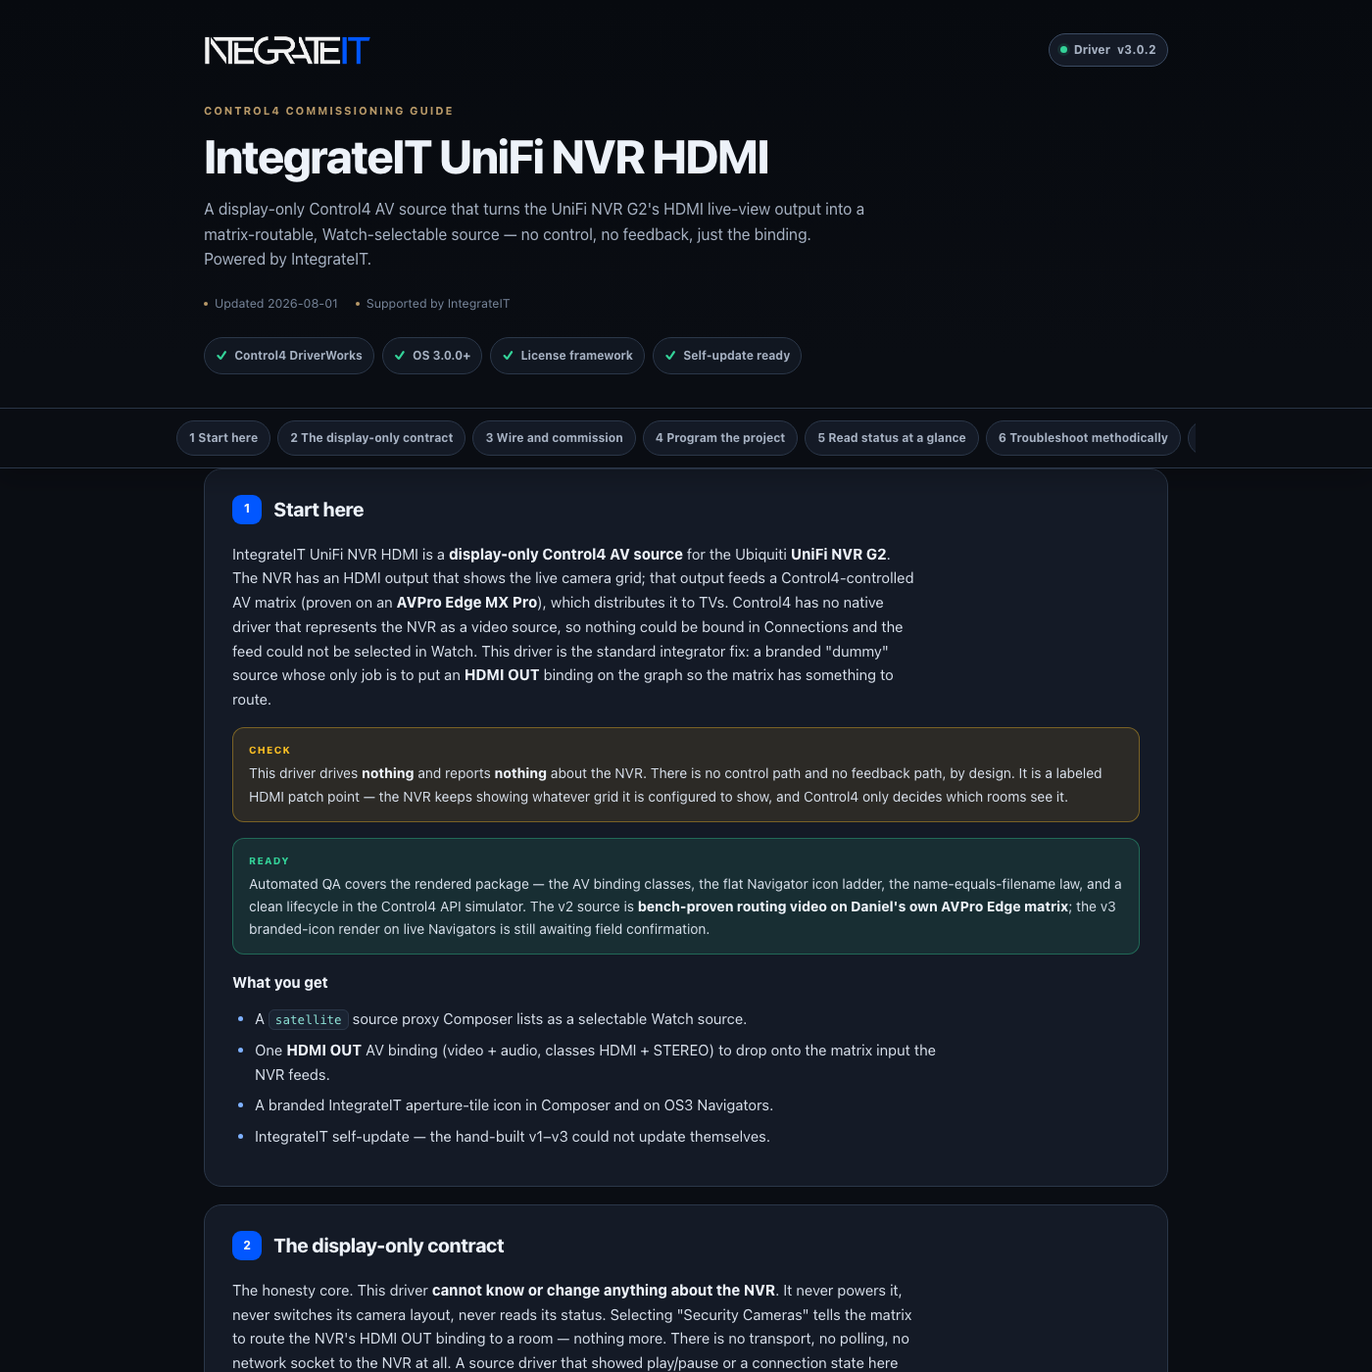
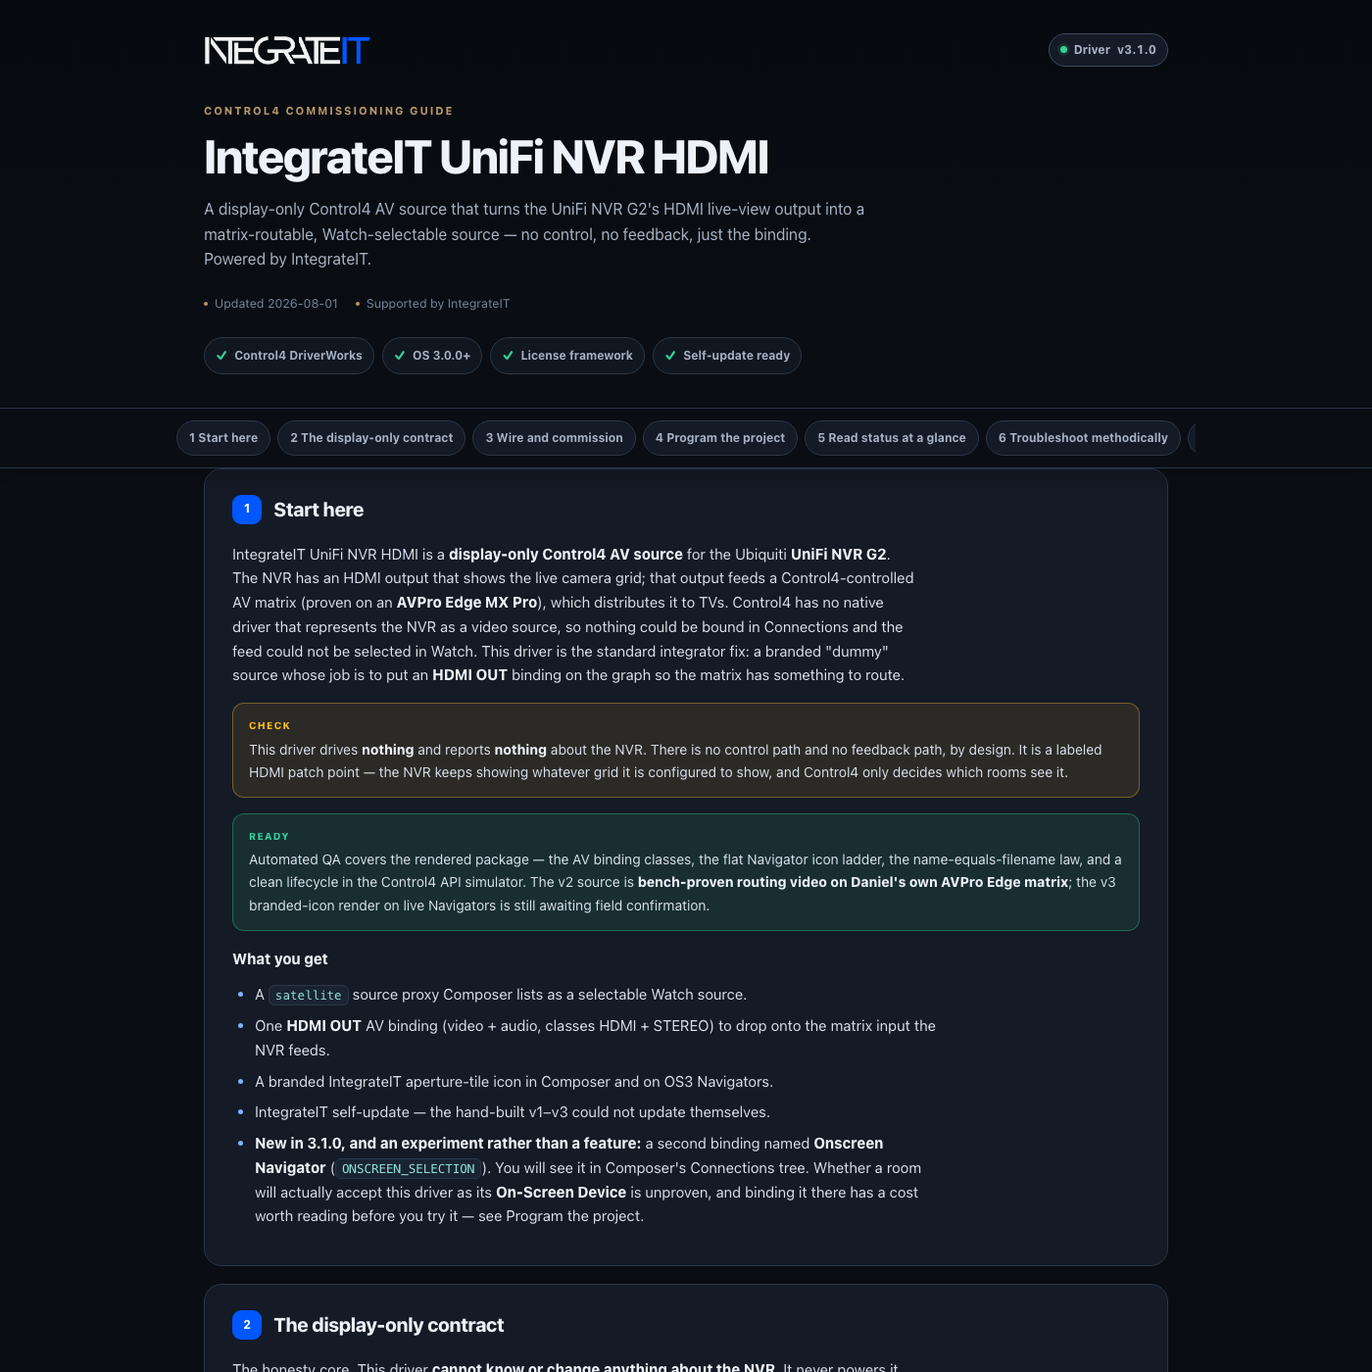
control4: publish driver channel (integrateit_unifi_nvr_hdmi 3.1.0)

Changed region(s): [[0.1536, 0.4914, 0.8293, 1.0]]

diff --git a/control4/integrateit_unifi_nvr_hdmi/documentation.html b/control4/integrateit_unifi_nvr_hdmi/documentation.html
@@ -179,7 +179,7 @@ td code{white-space:normal}
     <div class="wrap">
       <div class="brandbar">
[1 lines of base64/hex data omitted]
-        <span class="version"><span class="word">Driver</span> v3.0.2</span>
+        <span class="version"><span class="word">Driver</span> v3.1.0</span>
       </div>
       <p class="eyebrow">Control4 commissioning guide</p>
       <h1>IntegrateIT UniFi NVR HDMI</h1>
@@ -204,7 +204,7 @@ td code{white-space:normal}
   <main class="wrap">
     <section class="card" id="overview" data-card="overview">
   <h2><span class="n">1</span> Start here</h2>
-  <p>IntegrateIT UniFi NVR HDMI is a <b>display-only Control4 AV source</b> for the Ubiquiti <b>UniFi NVR G2</b>. The NVR has an HDMI output that shows the live camera grid; that output feeds a Control4-controlled AV matrix (proven on an <b>AVPro Edge MX Pro</b>), which distributes it to TVs. Control4 has no native driver that represents the NVR as a video source, so nothing could be bound in Connections and the feed could not be selected in Watch. This driver is the standard integrator fix: a branded "dummy" source whose only job is to put an <b>HDMI OUT</b> binding on the graph so the matrix has something to route.</p>
+  <p>IntegrateIT UniFi NVR HDMI is a <b>display-only Control4 AV source</b> for the Ubiquiti <b>UniFi NVR G2</b>. The NVR has an HDMI output that shows the live camera grid; that output feeds a Control4-controlled AV matrix (proven on an <b>AVPro Edge MX Pro</b>), which distributes it to TVs. Control4 has no native driver that represents the NVR as a video source, so nothing could be bound in Connections and the feed could not be selected in Watch. This driver is the standard integrator fix: a branded "dummy" source whose job is to put an <b>HDMI OUT</b> binding on the graph so the matrix has something to route.</p>
   <div class="note warn">This driver drives <b>nothing</b> and reports <b>nothing</b> about the NVR. There is no control path and no feedback path, by design. It is a labeled HDMI patch point — the NVR keeps showing whatever grid it is configured to show, and Control4 only decides which rooms see it.</div>
   <div class="note good">Automated QA covers the rendered package — the AV binding classes, the flat Navigator icon ladder, the name-equals-filename law, and a clean lifecycle in the Control4 API simulator. The v2 source is <b>bench-proven routing video on Daniel's own AVPro Edge matrix</b>; the v3 branded-icon render on live Navigators is still awaiting field confirmation.</div>
   <p><b>What you get</b></p>
@@ -213,6 +213,7 @@ td code{white-space:normal}
     <li>One <b>HDMI OUT</b> AV binding (video + audio, classes HDMI + STEREO) to drop onto the matrix input the NVR feeds.</li>
     <li>A branded IntegrateIT aperture-tile icon in Composer and on OS3 Navigators.</li>
     <li>IntegrateIT self-update — the hand-built v1–v3 could not update themselves.</li>
+    <li><b>New in 3.1.0, and an experiment rather than a feature:</b> a second binding named <b>Onscreen Navigator</b> (<code>ONSCREEN_SELECTION</code>). You will see it in Composer's Connections tree. Whether a room will actually accept this driver as its <b>On-Screen Device</b> is unproven, and binding it there has a cost worth reading before you try it — see Program the project.</li>
   </ul>
 </section>
 
@@ -243,8 +244,10 @@ td code{white-space:normal}
   </ul>
   <p>One recipe of exactly that shape — <b>doorbell rings, cameras hit the theater TV:</b></p>
   <p>Note who does the work: the doorbell driver supplies the trigger, the room performs the selection, the matrix routes the HDMI, and this driver's whole contribution is that <b>Security Cameras</b> is on the room's source list at all. Because the driver never reports anything, a "put it back" step is a timed step you write — there is no "cameras finished" event to wait on. Nothing here is license-gated either: with no actuating path, there is nothing a license could withhold.</p>
-  <p><b>It will never be the room's On-Screen Device, and that is not a gap.</b> The "On-Screen Device" row in Connections lists whatever renders Navigator on that room's TV. In an IntegrateIT project that is normally the controller — a CORE 5 or CORE 3, pushing Navigator out its own HDMI — and Control4 also lets an AV receiver hold the row, which is the case its own driver documentation is written around. Either way the row wants an <i>endpoint</i>. This driver sits at the other end of the wire: it is a source that hands video to the matrix, never an endpoint that video is handed to. Control4's stated condition for an onscreen binding is that a video path must also exist — the room has to be able to select that same device as its video endpoint — and a source can't be one.</p>
-  <p>Bind it there and the room would enter navigation mode and forward every arrow, ENTER and BACK to a driver with no control path — the keys would vanish and the TV would show the same camera grid it already shows. What you want is already here and is a different row: select <b>Security Cameras</b> as the room's <b>video source</b>. The NVR draws its own grid over HDMI; Control4 only decides which rooms see it. No Control4 UI renders on this feed — no menus, no cursor, no per-camera picker. The remote's arrows keep belonging to the CORE.</p>
+  <p><b>The On-Screen Device row: 3.1.0 declares the binding, and does not promise it works.</b> As of 3.1.0 this driver declares an <code>ONSCREEN_SELECTION</code> room binding (<b>Onscreen Navigator</b>, id 7500, type 7), which is what makes a device eligible to be picked in a room's <b>On-Screen Device</b> row in Connections — the row that normally holds the CORE 5 or CORE 3 pushing Navigator out its own HDMI. Every field value is taken from Control4's own DriverWorks example for a receiver with an onscreen binding.</p>
+  <p>That same Control4 documentation attaches a condition to the binding: a <b>video path must also exist</b> — the room has to be able to select the device as its <b>video endpoint</b> too. This driver cannot satisfy that. It is a source that hands video to the matrix, never an endpoint video is handed to. So whether Composer actually offers this device in the On-Screen Device list, and whether Director accepts the assignment if you make it, is <b>unproven</b>. This release exists to find that out on real hardware. Treat it as an experiment, not a feature: if it does not appear, that is the documented behavior asserting itself, not a defect to chase.</p>
+  <p><b>If a room does take it, watch the remote.</b> Binding a room's onscreen device puts that room into navigation mode, and the room then forwards <code>UP</code>, <code>DOWN</code>, <code>LEFT</code>, <code>RIGHT</code>, <code>PAGE_UP</code>, <code>PAGE_DOWN</code>, <code>ENTER</code>, <code>BACK</code>, <code>CANCEL</code> and <code>GUIDE</code> to the bound driver until navigation exits. This driver has no control path — no socket, no credentials, a proxy handler that does nothing — so it will swallow those keys and nothing on screen will move. The remedy is one step: clear this driver out of the room's On-Screen Device row in Connections and the keys go back to the CORE.</p>
+  <p><b>The supported path is unchanged.</b> For cameras on a TV, select <b>Security Cameras</b> as the room's <b>video source</b>. That is field-proven, it is what the rest of this guide describes, and 3.1.0 does not touch it. Either way, no Control4 UI renders on this feed — no menus, no cursor, no per-camera picker. The NVR draws its own grid over HDMI and Control4 only decides which rooms see it; a room binding cannot change that.</p>
 </section>
 
 <section class="card" id="status" data-card="status">
@@ -257,6 +260,7 @@ td code{white-space:normal}
   <ul>
     <li><b>"Security Cameras" is not offered in Watch</b> — the source was never bound. Re-check Connections: <b>HDMI OUT</b> must land on the matrix input the NVR feeds.</li>
     <li><b>Blank / no-signal when selected</b> — an EDID mismatch. Set that matrix input's EDID to <b>4K30</b> or <b>1080p</b>; the NVR pushes 4K and can out-run a display or a long HDMI run.</li>
+    <li><b>A room's arrows, ENTER and BACK stopped doing anything</b> — check that row first, before you suspect the remote or the CORE. If this driver was set as that room's <b>On-Screen Device</b> (the 3.1.0 experiment), the room is in navigation mode and is forwarding those keys here, where nothing handles them. Clear this driver out of the <b>On-Screen Device</b> row in Connections and the keys go back to the CORE.</li>
     <li><b>Blank icon in Navigator</b> — the <code>.c4z</code> was renamed, or the Navigator cache is stale. Restore the filename <code>integrateit_unifi_nvr_hdmi.c4z</code>, then run the field refresh order above (icon caches survive a plain reload).</li>
     <li><b>Still stuck</b> — contact support with the room name, the AVPro input number, and the NVR HDMI resolution.</li>
   </ul>
@@ -267,7 +271,7 @@ td code{white-space:normal}
   <p>Nothing leaves the controller. This driver opens no network connection, holds no credentials, and logs nothing — there is nothing for a dummy source to send, and no camera video ever passes through Control4's data path (the HDMI signal travels the AV matrix, not the network). Licensing runs in the shared IntegrateIT framework, but because the driver has <b>no actuating path, no function is license-gated</b> — a missing or invalid key never disables it. Self-update polls the IntegrateIT channel and can stage the next version for a one-click install.</p>
 <section class="card" id="reference" data-card="reference">
   <h2><span class="n">R</span> Reference</h2>
-  <p>Generated from the driver manifest at build time — always matches this build (v3.0.2).</p>
+  <p>Generated from the driver manifest at build time — always matches this build (v3.1.0).</p>
   <h3>Properties</h3>
   <table>
     <tr><th>Property</th><th>Type</th><th>Default</th><th>Description</th></tr>
@@ -368,7 +372,9 @@ td code{white-space:normal}
     <section class="card" id="changelog" data-card="changelog">
   <h2><span class="n">V</span> Version history</h2>
   <div class="chg">
-    <div class="rel"><b>v3.0.2</b> <span class="pill green">current</span><span class="d">2026-08-01</span>
+    <div class="rel"><b>v3.1.0</b> <span class="pill green">current</span><span class="d">2026-08-01</span>
+      <ul><li>Adds the `ONSCREEN_SELECTION` room binding that 3.0.2 declined: a third connection named **Onscreen Navigator**, id 7500, type 7, facing 6, consumer False, all three source flags False. Declaring it is what makes a device eligible for a room's **On-Screen Device** row in Connections, so the NVR can now be offered there beside the CORE processors. Daniel asked for it, reaffirmed it after the refusal, and authorized shipping it into his own test house — this release is that experiment, run on real hardware instead of argued on paper.</li><li>Every field value is cited, not guessed. They come from Control4's own DriverWorks section for a receiver with an onscreen binding (snap-one/docs-driverworks-api, `source/includes/19_media_management_miscellaneous/_1-Receiver_with_Onscreen_Binding.md`), including the three source flags rendered explicitly as False — the shape the official example shows. The build now emits those flags whenever a manifest declares any of them, so the render matches the documented example rather than approximating it.</li><li>The precondition is unmet and stated as such. That same section makes a video path the condition of the binding: the room must also be able to select the device as its **video endpoint**. This driver is a source feeding a matrix and can never be one, so whether Composer lists it and whether Director accepts the assignment is **unproven**. Nothing here promises it works. If it does not appear in the room's list, that is the documentation asserting itself, not a defect. Selecting **Security Cameras** as the room's **video source** remains the supported, field-proven path for cameras on a TV and is untouched by this release.</li><li>The risk if a room does take it: the room enters navigation mode and forwards every arrow, `ENTER`, `BACK`, `CANCEL` and `GUIDE` to the bound driver until navigation exits. This driver has no control path — no socket, no credentials, a proxy handler that does nothing — so it swallows them and nothing on screen moves. The remedy is one step: clear it out of the room's On-Screen Device row and the keys return to the CORE. The guide's Program the project section now says all of this in place of the flat refusal it carried in 3.0.2, and it is said in the two other places a dealer would actually be standing: Start here names the new binding as an experiment, because you meet it in Composer's Connections tree before you ever reach the Programming section, and Troubleshoot leads with it — a room whose arrows, ENTER and BACK went dead is this release's one new failure mode, and the person hunting it will open Troubleshoot, not the release notes. Start here also dropped a single-binding "only job" line that the third connection made false. The tests that guarded the refusal were flipped to pin the binding's exact rendered block instead, and a new case reads the rendered guide itself and fails if any of those three sections stops saying it. A new case pins what did *not* change: the binding added no command, no variable and no event, so this is still not a controllable device.</li><li>Note the cost of reversal, on the record now rather than discovered later: id 7500 is published the moment this ships, and taking the binding back out in a later release retires a published id, which breaks any dealer programming bound to it. The Update Sentinel will refuse that push until the release notes carry its retire-authorization marker — the literal `ID`/`RETIRE`/`OK` line defined in `tools/qa-id-stability.mjs`, spelled as one phrase, which this entry deliberately does NOT spell because this release retires nothing. Pulling the binding is therefore a deliberate, documented act, and that is the price of finding out whether it works.</li></ul></div>
+    <div class="rel"><b>v3.0.2</b><span class="d">2026-08-01</span>
       <ul><li>The guide now states plainly why this source can never be the room's On-Screen Device, and why that is not a missing feature. Control4's own driver documentation (DriverWorks, *Receiver with Onscreen Binding*) makes a video path the condition of that binding: the room must be able to select the same device as its **video endpoint**. That row holds an endpoint — the controller pushing Navigator out its HDMI, or an AV receiver. This driver is the opposite end of the wire: a provider that hands video to the matrix. Bound there anyway, the room would enter navigation mode and forward every arrow, ENTER and BACK to a driver with no control path; the keys would vanish and the TV would show the same camera grid it already shows. Adding a room-binding connection to make it appear in that list was designed, costed, and declined — an entry that swallows the remote is a fabrication, and a wrong binding id is expensive to retire once it is fielded.</li><li>The camera-on-TV workflow is pointed at the row that already works: select **Security Cameras** as the room's **video source**. That path is field-proven, and the doc now says outright that no Control4 UI renders on this feed — no menus, no cursor, no per-camera picker — so nobody goes hunting for one.</li><li>Tests pin the refusal rather than trusting it: the rendered package is now asserted to carry exactly two connections, no `ONSCREEN_SELECTION` class, nothing in the 7000–7999 room-binding range, no type-7 connection, and the unchanged **HDMI OUT** output — plus the standing truth that this driver declares no commands, no device events and no variables of its own. Landing the declined binding turns those cases red.</li></ul></div>
     <div class="rel"><b>v3.0.1</b><span class="d">2026-07-31</span>
       <ul><li>Certification pass: this driver was read end to end against its own manifest and code — every name checked for a single spelling across the manifest, the code and this guide, and every claim in the documentation verified against what the code does rather than what it intended.</li><li>The guide gained the Program the project section the documentation contract requires. It says plainly that there is nothing on this driver to program — a display-only source declares no commands, no device events and no variables, so any of those here would be fiction — and then shows where the automation actually lives: the room selects the source, the matrix routes the HDMI, and a doorbell-to-theater recipe demonstrates the shape. A stale reference to the package's internal version number was removed rather than left to go stale again.</li><li>Two latent release blockers, both found by trying to release: a test pinned the running build's version to the literal 3.0.0, and the golden-artifact comparison rewrote this driver's minimum OS version because it happened to read the same as its driver version. Either one would have failed the first patch release. Both are fixed at the root, so this driver can be updated normally from here.</li></ul></div>

diff --git a/control4/integrateit_unifi_nvr_hdmi/CHANGELOG.md b/control4/integrateit_unifi_nvr_hdmi/CHANGELOG.md
@@ -1,5 +1,12 @@
 # Changelog — IntegrateIT UniFi NVR HDMI
 
+## [3.1.0] - 2026-08-01
+- Adds the `ONSCREEN_SELECTION` room binding that 3.0.2 declined: a third connection named **Onscreen Navigator**, id 7500, type 7, facing 6, consumer False, all three source flags False. Declaring it is what makes a device eligible for a room's **On-Screen Device** row in Connections, so the NVR can now be offered there beside the CORE processors. Daniel asked for it, reaffirmed it after the refusal, and authorized shipping it into his own test house — this release is that experiment, run on real hardware instead of argued on paper.
+- Every field value is cited, not guessed. They come from Control4's own DriverWorks section for a receiver with an onscreen binding (snap-one/docs-driverworks-api, `source/includes/19_media_management_miscellaneous/_1-Receiver_with_Onscreen_Binding.md`), including the three source flags rendered explicitly as False — the shape the official example shows. The build now emits those flags whenever a manifest declares any of them, so the render matches the documented example rather than approximating it.
+- The precondition is unmet and stated as such. That same section makes a video path the condition of the binding: the room must also be able to select the device as its **video endpoint**. This driver is a source feeding a matrix and can never be one, so whether Composer lists it and whether Director accepts the assignment is **unproven**. Nothing here promises it works. If it does not appear in the room's list, that is the documentation asserting itself, not a defect. Selecting **Security Cameras** as the room's **video source** remains the supported, field-proven path for cameras on a TV and is untouched by this release.
+- The risk if a room does take it: the room enters navigation mode and forwards every arrow, `ENTER`, `BACK`, `CANCEL` and `GUIDE` to the bound driver until navigation exits. This driver has no control path — no socket, no credentials, a proxy handler that does nothing — so it swallows them and nothing on screen moves. The remedy is one step: clear it out of the room's On-Screen Device row and the keys return to the CORE. The guide's Program the project section now says all of this in place of the flat refusal it carried in 3.0.2, and it is said in the two other places a dealer would actually be standing: Start here names the new binding as an experiment, because you meet it in Composer's Connections tree before you ever reach the Programming section, and Troubleshoot leads with it — a room whose arrows, ENTER and BACK went dead is this release's one new failure mode, and the person hunting it will open Troubleshoot, not the release notes. Start here also dropped a single-binding "only job" line that the third connection made false. The tests that guarded the refusal were flipped to pin the binding's exact rendered block instead, and a new case reads the rendered guide itself and fails if any of those three sections stops saying it. A new case pins what did *not* change: the binding added no command, no variable and no event, so this is still not a controllable device.
+- Note the cost of reversal, on the record now rather than discovered later: id 7500 is published the moment this ships, and taking the binding back out in a later release retires a published id, which breaks any dealer programming bound to it. The Update Sentinel will refuse that push until the release notes carry its retire-authorization marker — the literal `ID`/`RETIRE`/`OK` line defined in `tools/qa-id-stability.mjs`, spelled as one phrase, which this entry deliberately does NOT spell because this release retires nothing. Pulling the binding is therefore a deliberate, documented act, and that is the price of finding out whether it works.
+
 ## [3.0.2] - 2026-08-01
 - The guide now states plainly why this source can never be the room's On-Screen Device, and why that is not a missing feature. Control4's own driver documentation (DriverWorks, *Receiver with Onscreen Binding*) makes a video path the condition of that binding: the room must be able to select the same device as its **video endpoint**. That row holds an endpoint — the controller pushing Navigator out its HDMI, or an AV receiver. This driver is the opposite end of the wire: a provider that hands video to the matrix. Bound there anyway, the room would enter navigation mode and forward every arrow, ENTER and BACK to a driver with no control path; the keys would vanish and the TV would show the same camera grid it already shows. Adding a room-binding connection to make it appear in that list was designed, costed, and declined — an entry that swallows the remote is a fabrication, and a wrong binding id is expensive to retire once it is fielded.
 - The camera-on-TV workflow is pointed at the row that already works: select **Security Cameras** as the room's **video source**. That path is field-proven, and the doc now says outright that no Control4 UI renders on this feed — no menus, no cursor, no per-camera picker — so nobody goes hunting for one.
